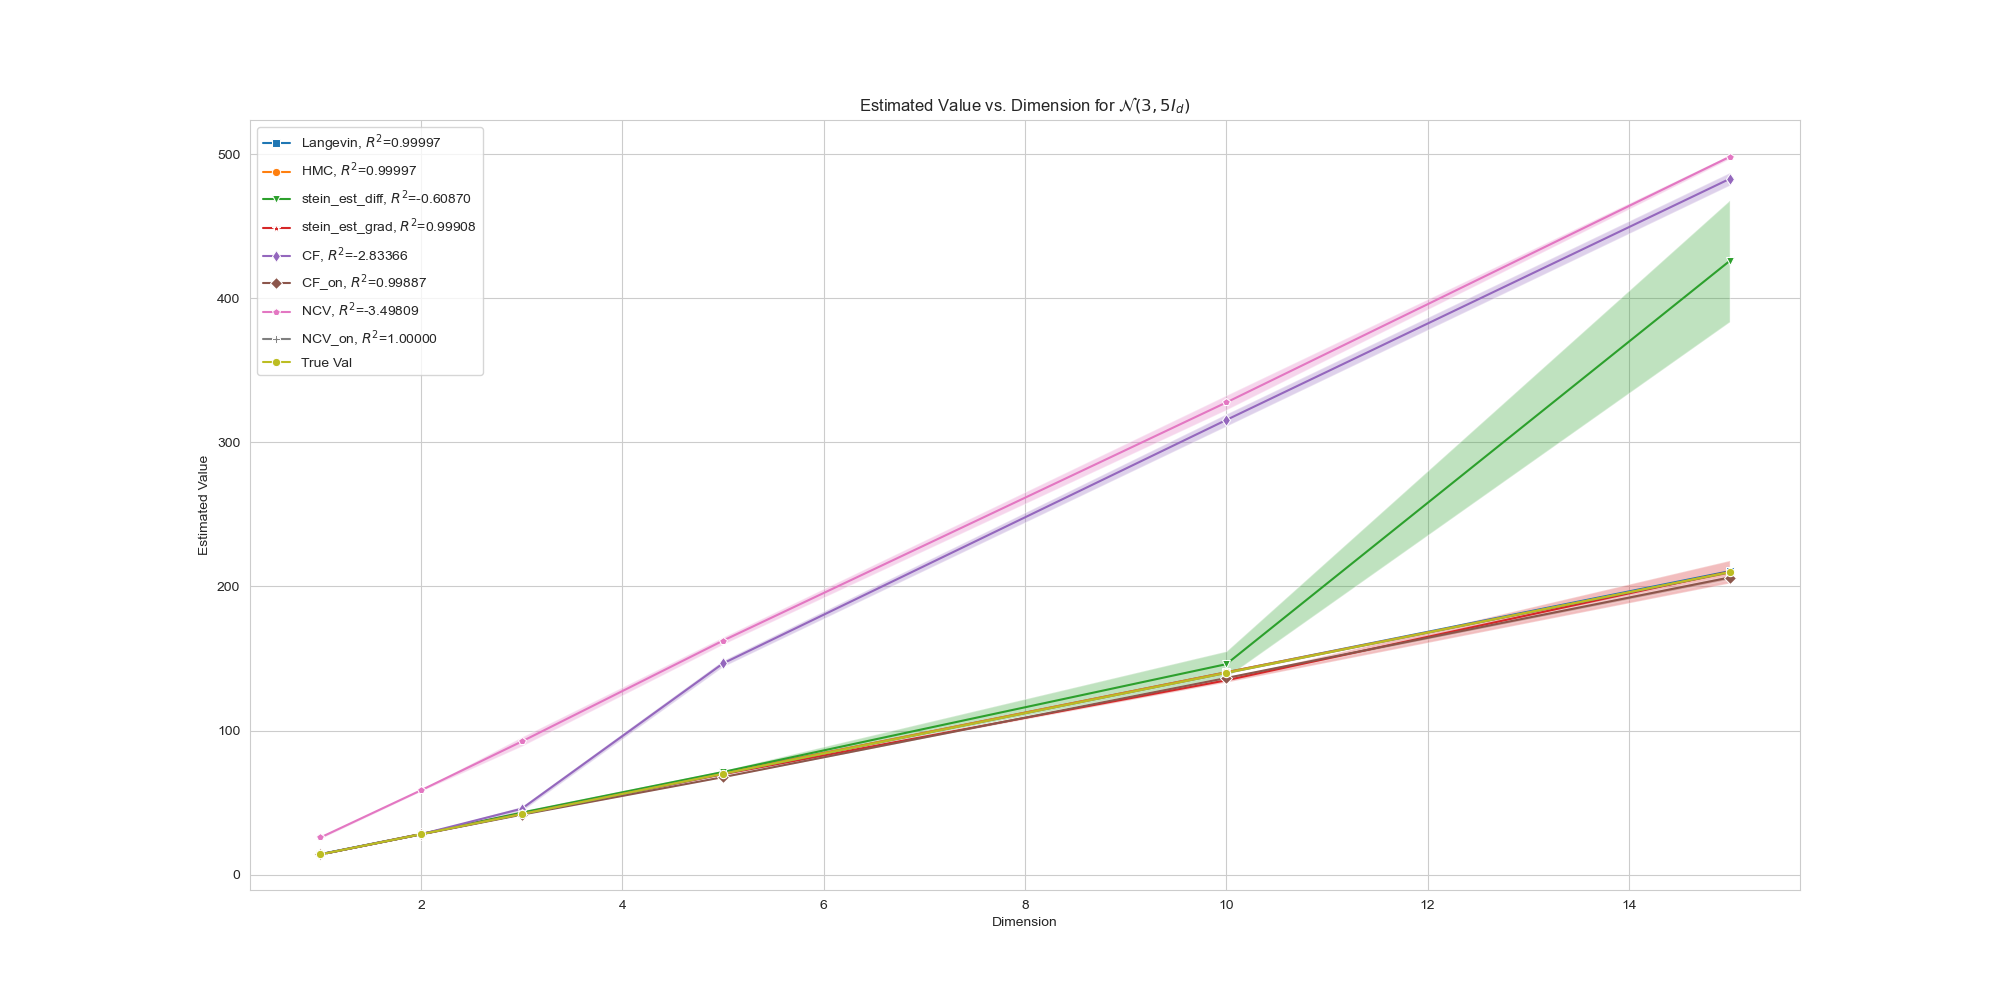
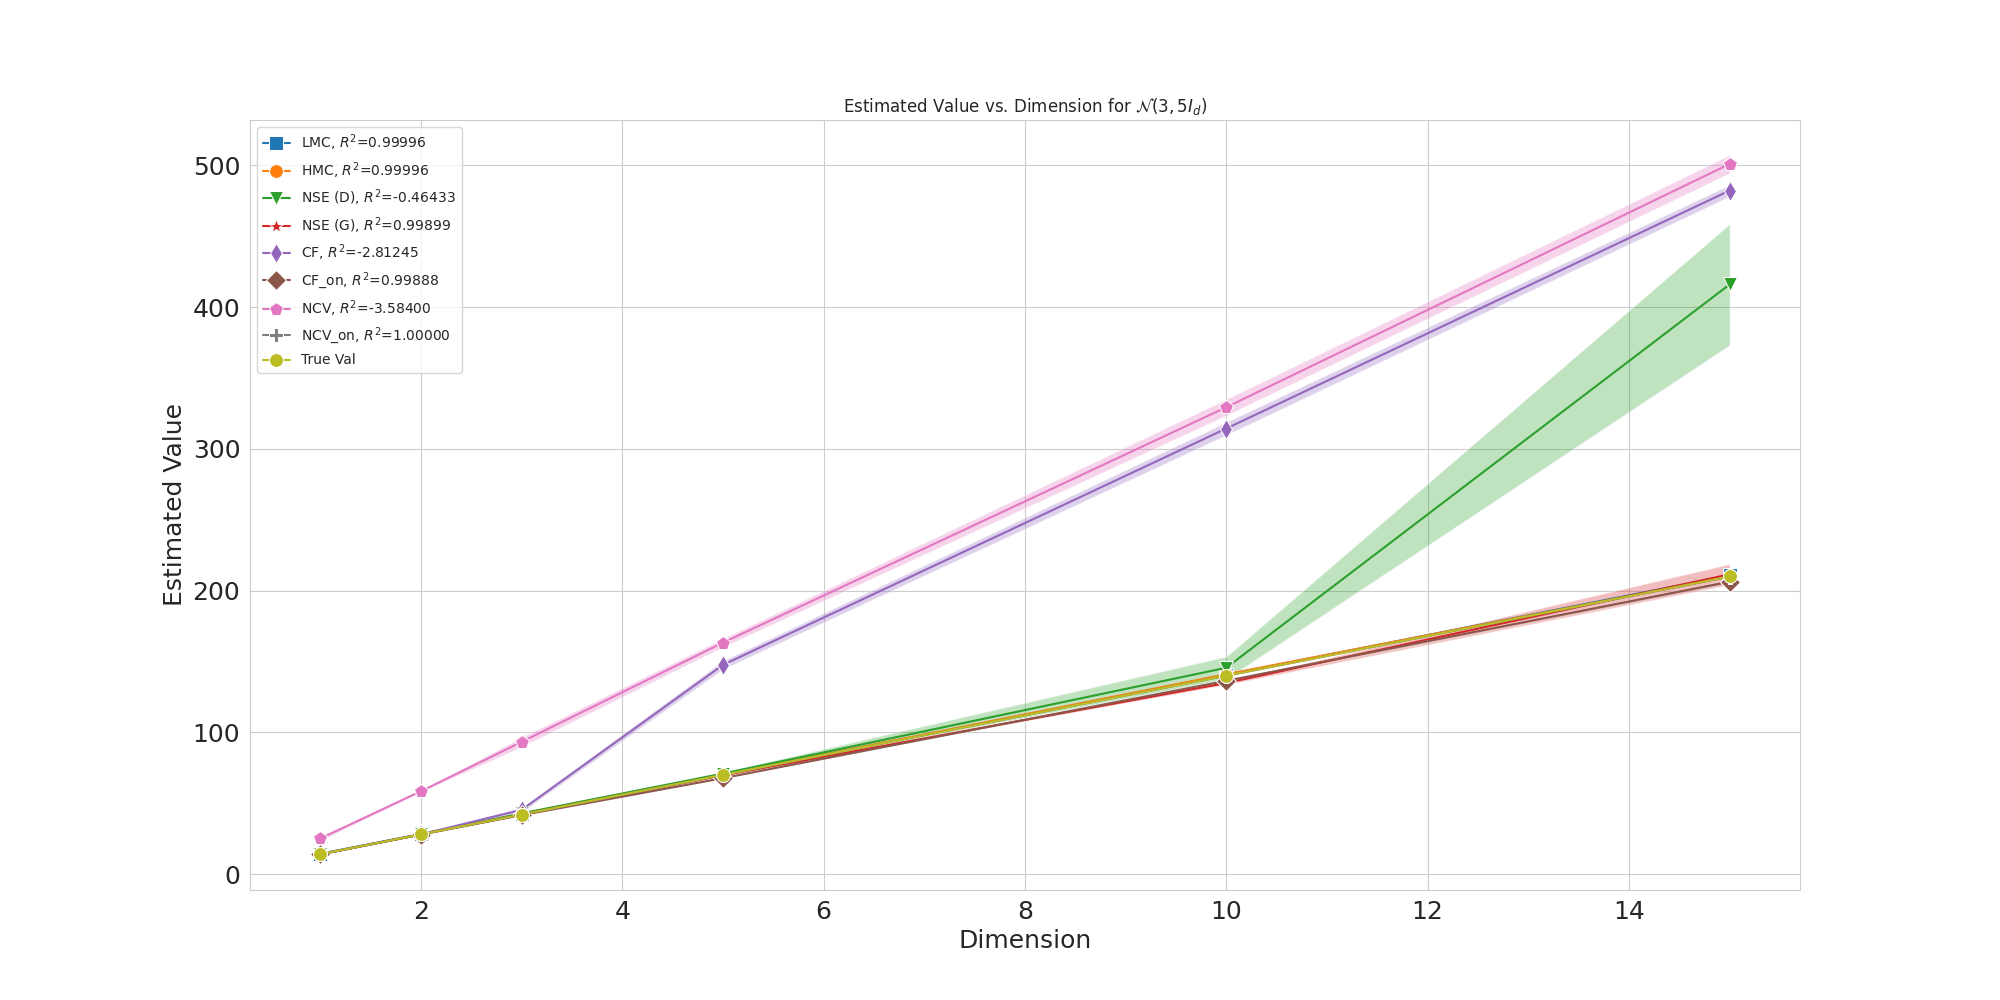
experiments updates

diff --git a/experiments/GMM_exp.py b/experiments/GMM_exp.py
@@ -19,9 +19,9 @@ HOME = "experiments/GMM_results/"
 device = torch.device('cuda:0' if torch.cuda.is_available() else 'cpu')
 DIMS = [1,2,3,5,10,20,30]
 SEED = [7,13,23,42,169]
-sample_range = (-5,10)
+sample_range = (-6,6)
 EPOCHS = [1000*int(dim/10 + 1) for dim in DIMS]
-N_SAMPLES = [300*int(dim/10 + 1) for dim in DIMS]
+N_SAMPLES = [300 for dim in DIMS]
 
 # Define the function h(x)
 def h(x):
@@ -44,18 +44,18 @@ def main(args):
     dim, seed, epochs, n_samples = get_parameters(args.experiment - 1)
     print(f"dim: {dim}, seed: {seed}, True Val: 0.0")
     torch.manual_seed(seed)
-    dist = Mixture(comps=[MultivariateNormalDistribution(mean = -2*torch.ones(dim),
-                                            covariance=torch.eye(dim)),
-                                MultivariateNormalDistribution(mean = 2*torch.ones(dim),
-                                            covariance=torch.eye(dim)
+    dist = Mixture(comps=[MultivariateNormalDistribution(mean = -2*torch.ones(dim).to(device),
+                                            covariance=torch.eye(dim).to(device)),
+                                MultivariateNormalDistribution(mean = 2*torch.ones(dim).to(device),
+                                            covariance=torch.eye(dim).to(device)
                                             )],
-                            pi=torch.tensor([0.5, 0.5])
+                            pi=torch.tensor([0.5, 0.5]).to(device)
                             )
 
-    LMC_est = eval_Langevin(dist, dim=dim, h=h, num_samples=10, 
+    LMC_est = eval_Langevin(dist, dim=dim, h=h, num_samples=n_samples, 
                             num_chains=100, device=device)
     print(f"\t Langevin est: {LMC_est.item()}")
-    HMC_est = eval_HMC(dist, dim=dim, h=h, num_samples=10, 
+    HMC_est = eval_HMC(dist, dim=dim, h=h, num_samples=n_samples, 
                     num_chains=100, device=device)
     print(f"\t HMC est: {HMC_est}")
     NSE_grad = evaluate_stein_expectation(dist, dim, sample_range, n_samples, h = h, 
@@ -85,7 +85,7 @@ def main(args):
     Data['n_samples'].append(n_samples)
     print(Data)
     df = pd.DataFrame(Data)
-    df.to_csv(HOME + f"MVN_exp_{args.experiment}.csv")
+    df.to_csv(HOME + f"GMM_exp_{args.experiment}.csv")
 
 
 if __name__ == '__main__':    
@@ -93,7 +93,7 @@ if __name__ == '__main__':
     # python MVN_exp.py --experiment=NO_OF_EXPERIMENT
     # NO_OF_EXPERIMENT is an integer from 1 to 32
     # Example : if NO_OF_EXPERIMENT = 1, then dim = 1, seed = 42, epochs = 1000, n_samples = 300 
-    #           if NO_OF_EXPERIMENT = 5, then dim = 2, seed = 42, epochs = 1000, n_samples = 500
+    #           if NO_OF_EXPERIMENT = 6, then dim = 2, seed = 42, epochs = 1000, n_samples = 500
     parser = argparse.ArgumentParser(description="Process some parameters.")
     
     # Define the --experiment argument

diff --git a/experiments/plot_data_MVN.py b/experiments/plot_data_MVN.py
@@ -5,6 +5,8 @@ import numpy as np
 sns.set_style('whitegrid')
 
 HOME = "experiments/MVN_results/"
+NAMES = {"Langevin": "LMC", "HMC": "HMC", "CF": "CF", "NCV": "NCV", "CF_on": "CF_on", 
+         "NCV_on": "NCV_on", "NSE_diff": "NSE (D)", "NSE_grad": "NSE (G)"}
 
 def compute_Rsquared(y_true, y_pred):
     y_true = y_true.to_numpy()
@@ -15,7 +17,7 @@ def compute_Rsquared(y_true, y_pred):
     return r2
 
 # Load the data
-df = pd.read_csv(HOME + 'merged_results.csv')
+df = pd.read_csv(HOME + 'merged_MVN_results.csv')
 
 # Calculate the means and standard deviations
 means = df.groupby(['dim']).mean().reset_index()
@@ -26,27 +28,33 @@ stds.to_csv(HOME + 'stds.csv')
 # print(stds)
 # Calculate the R^2 values
 Rsquared = {}
-for method in ['Langevin', 'HMC', 'stein_est_diff', 'stein_est_grad', 'CF', 'CF_on', 'NCV', 'NCV_on']:
+for method in ['Langevin', 'HMC', 'NSE_diff', 'NSE_grad', 'CF', 'CF_on', 'NCV', 'NCV_on']:
     Rsquared[method] = compute_Rsquared(means['true_val'], means[method])
 
 # Plot the data
 plt.figure(figsize=(20, 10))
 markers = ['s', 'o', 'v', '*', 'd', 'D', 'p', 'P']
 # plot with confidence intervals
-for i, method in enumerate(['Langevin', 'HMC', 'stein_est_diff', 'stein_est_grad', 'CF', 'CF_on', 'NCV', 'NCV_on']):
-    sns.lineplot(data=means, x='dim', y=method, label=method + fr", $R^2$={Rsquared[method]:.5f}", marker=markers[i])
+
+
+for i, method in enumerate(['Langevin', 'HMC', 'NSE_diff', 'NSE_grad', 'CF', 'CF_on', 'NCV', 'NCV_on']):
+    sns.lineplot(data=means, x='dim', y=method, label=NAMES[method] + fr", $R^2$={Rsquared[method]:.5f}", marker=markers[i], markersize=10)
     plt.fill_between(means['dim'], means[method] - stds[method], means[method] + stds[method], alpha=0.3)
 
 
 
-sns.lineplot(data=means, x='dim', y='true_val', label='True Val', marker='o')
+sns.lineplot(data=means, x='dim', y='true_val', label='True Val', marker='o', markersize=10)
 # for i, method in enumerate(['Langevin', 'HMC', 'stein_est_diff', 'stein_est_grad', 'CF', 'CF_on', 'NCV', 'NCV_on']):
 #     sns.lineplot(data=means, x='dim', y=method, label=method + fr", $R^2$={Rsquared[method]:.5f}", marker=markers[i])
 
-plt.xlabel('Dimension')
-plt.ylabel('Estimated Value')
+plt.xlabel('Dimension', fontsize=18)
+plt.ylabel('Estimated Value', fontsize=18)
+plt.xticks(fontsize=16)
+plt.yticks(fontsize=16)
+plt.tick_params(axis='both', which='major', labelsize=18)
+plt.tick_params(axis='both', which='minor', labelsize=18)
+plt.legend(fontsize=16)
 plt.legend()
 plt.title(r'Estimated Value vs. Dimension for $\mathcal{N}(3, 5I_d)$')
 plt.savefig(HOME + 'MVN_estimated_value_vs_dimension.png')
-plt.show()
 

diff --git a/experiments/plot_data_GMM.py b/experiments/plot_data_GMM.py
@@ -1,0 +1,48 @@
+import pandas as pd 
+import seaborn as sns
+import matplotlib.pyplot as plt
+import numpy as np
+sns.set_style('whitegrid')
+
+HOME = "experiments/GMM_results/"
+NAMES = {"Langevin": "LMC", "HMC": "HMC", "CF": "CF", "NCV": "NCV", "CF_on": "CF_on", 
+         "NCV_on": "NCV_on", "NSE_diff": "NSE (D)", "NSE_grad": "NSE (G)"}
+
+# Load the data
+df = pd.read_csv(HOME + 'merged_GMM_results.csv')
+
+# Calculate the means and standard deviations
+means = df.groupby(['dim']).mean().reset_index()
+stds = df.groupby(['dim']).std().reset_index()
+means.to_csv(HOME + 'means.csv')
+stds.to_csv(HOME + 'stds.csv')
+# print(means)
+# print(stds)
+
+# Plot the data
+plt.figure(figsize=(20, 10))
+markers = ['s', 'o', 'v', '*', 'D', 'P']
+# plot with confidence intervals
+
+
+for i, method in enumerate(['Langevin', 'HMC', 'NSE_diff', 'NSE_grad', 'CF', 'NCV']):
+    sns.lineplot(data=means, x='dim', y=method, label=NAMES[method], marker=markers[i], markersize=10)
+    plt.fill_between(means['dim'], means[method] - stds[method], means[method] + stds[method], alpha=0.3)
+
+
+
+sns.lineplot(data=means, x='dim', y='true_val', label='True Val', marker='o', markersize=10)
+# for i, method in enumerate(['Langevin', 'HMC', 'stein_est_diff', 'stein_est_grad', 'CF', 'CF_on', 'NCV', 'NCV_on']):
+#     sns.lineplot(data=means, x='dim', y=method, label=method + fr", $R^2$={Rsquared[method]:.5f}", marker=markers[i])
+
+plt.xlabel('Dimension', fontsize=18)
+plt.ylabel('Estimated Value', fontsize=18)
+plt.xticks(fontsize=16)
+plt.yticks(fontsize=16)
+plt.tick_params(axis='both', which='major', labelsize=18)
+plt.tick_params(axis='both', which='minor', labelsize=18)
+plt.legend(fontsize=16)
+plt.legend(loc='upper left')
+plt.title(r'Estimated Value vs. Dimension for MoG')
+plt.savefig(HOME + 'GMM_estimated_value_vs_dimension.png')
+

diff --git a/experiments/plot_data_mMVN.py b/experiments/plot_data_mMVN.py
@@ -5,10 +5,12 @@ import numpy as np
 sns.set_style('whitegrid')
 
 HOME = "experiments/mean_MVN_results/"
+NAMES = {"Langevin": "LMC", "HMC": "HMC", "CF": "CF", "NCV": "NCV", "CF_on": "CF_on", 
+         "NCV_on": "NCV_on", "NSE_diff": "NSE (D)", "NSE_grad": "NSE (G)"}
 
 
 # Load the data
-df = pd.read_csv(HOME + 'merged_MVN_results.csv')
+df = pd.read_csv(HOME + 'merged_mMVN_results.csv')
 
 # Calculate the means and standard deviations
 means = df.groupby(['used_mean']).mean().reset_index()
@@ -23,8 +25,8 @@ plt.figure(figsize=(20, 10))
 markers = ['v', '*', 'D', 'P']
 # plot with confidence intervals
 for i, method in enumerate(['NSE_diff', 'NSE_grad', 'CF_on', 'NCV_on']):
-    sns.lineplot(data=means, x='used_mean', y=method, label=method if method.split('_')[-1] != 'on' else method.split('_')[0],
-                  marker=markers[i], markersize=10)
+    sns.lineplot(data=means, x='used_mean', y=method, label=NAMES[method] if method.split('_')[-1] != 'on' else method.split('_')[0], 
+                marker=markers[i], markersize=10)
     plt.fill_between(means['used_mean'], means[method] - stds[method], means[method] + stds[method], alpha=0.3)
 
 
@@ -36,12 +38,13 @@ sns.lineplot(data=means, x='used_mean', y='true_val', label='True Val', marker='
 plt.xlabel('Samples mean', fontsize=18)
 plt.ylabel('Estimated Value', fontsize=18)
 # increasing the font size
-plt.xticks(fontsize=18)
-plt.yticks(fontsize=18)
+plt.xticks(fontsize=16)
+plt.yticks(fontsize=16)
 plt.tick_params(axis='both', which='major', labelsize=18)
 plt.tick_params(axis='both', which='minor', labelsize=18)
 plt.legend(fontsize=16)
 plt.title(r'Estimated Value vs. samples mean for $\mathcal{N}(3, 5I_d)$', fontsize=24)
 plt.savefig(HOME + 'MVN_estimated_value_vs_mean.png')
 plt.show()
+
 

diff --git a/experiments/merge.py b/experiments/merge.py
@@ -1,0 +1,17 @@
+import pandas as pd
+
+import os
+
+### Merge all the .csv files in the experiments folder
+# Path to the experiments folder
+experiments_folder = 'experiments/GMM_results/'
+# List all the files in the experiments folder
+files = os.listdir(experiments_folder)
+# Filter out the .csv files
+files = [file for file in files if (file.endswith('.csv'))]
+
+# Read all the .csv files and concatenate them along the rows
+df = pd.concat([pd.read_csv(os.path.join(experiments_folder, file)).drop(columns=["Unnamed: 0"]) for file in files], ignore_index=True)
+
+# Save the merged dataframe to a new .csv file
+df.to_csv(experiments_folder + 'merged_GMM_results.csv', index=False)
